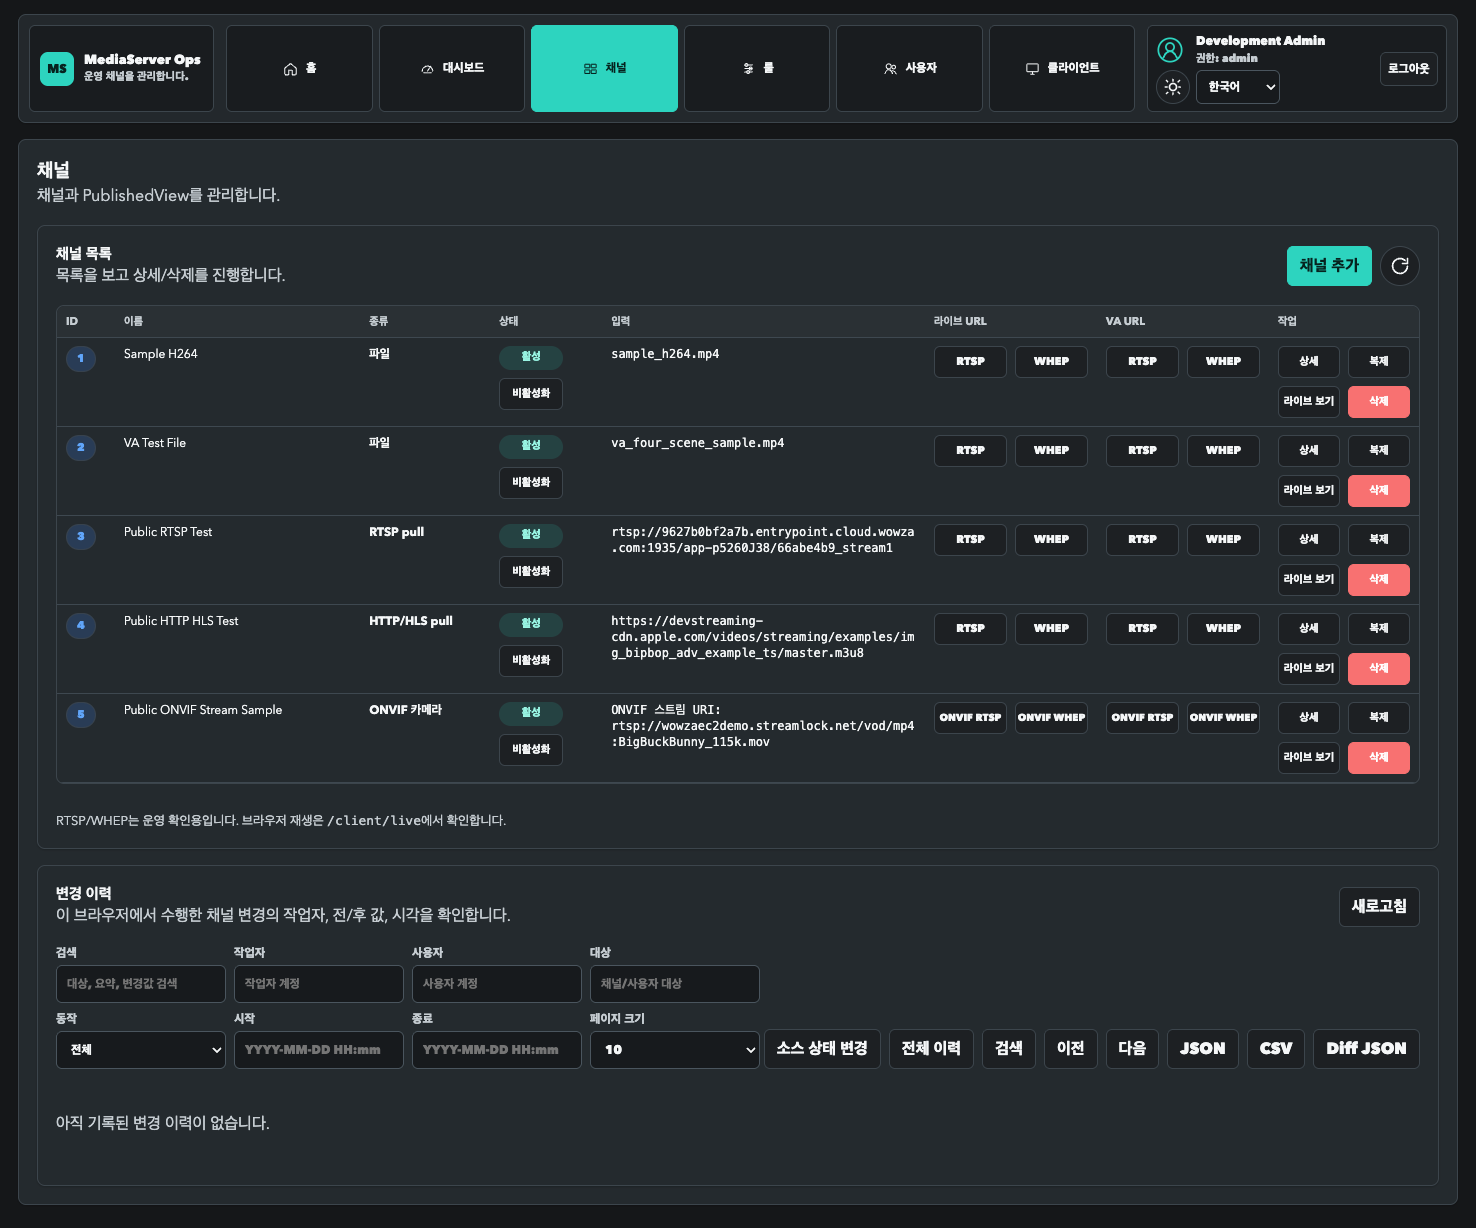
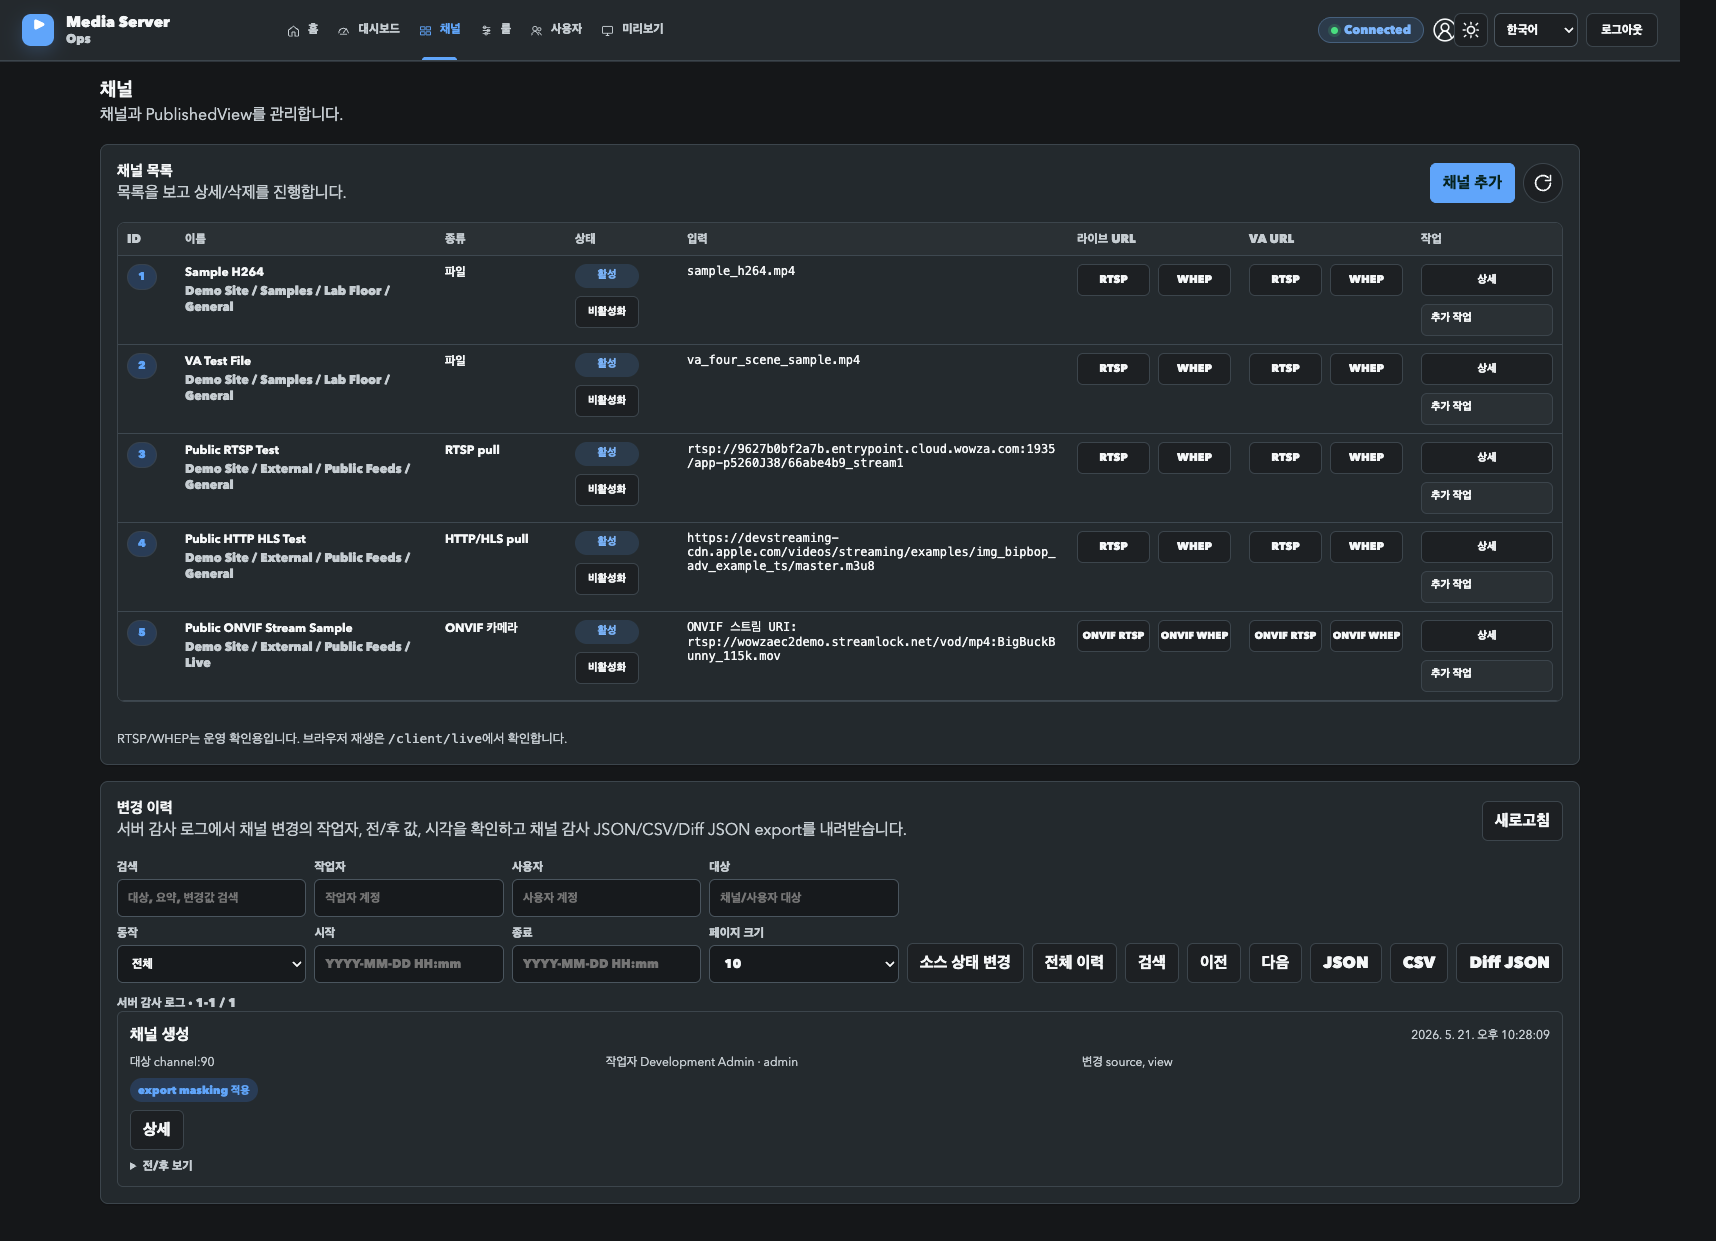
fix: refresh v1.7 docs screenshots

diff --git a/src/ingress/product_ui_js.cpp b/src/ingress/product_ui_js.cpp
@@ -52,6 +52,7 @@ std::string ProductSharedUiScript() {
         '룰': 'Rules',
         '사용자': 'Users',
         '클라이언트': 'Client',
+        '미리보기': 'Client Preview',
         '라이브': 'Live',
         '운영 메뉴': 'Ops menu',
         '클라이언트 메뉴': 'Client menu',
@@ -84,6 +85,7 @@ std::string ProductSharedUiScript() {
         '닫기': 'Close',
         '삭제': 'Delete',
         '작업': 'Actions',
+        '추가 작업': 'More actions',
         '상태': 'Status',
         '상태 복사': 'Copy status',
         '상태 요약 복사 완료': 'Status summary copied',
@@ -95,6 +97,12 @@ std::string ProductSharedUiScript() {
         '종류': 'Type',
         '입력': 'Input',
         '선택': 'Sel.',
+        '생성': 'Create',
+        '대량 복제': 'Bulk clone',
+        '대량 비활성화': 'Bulk disable',
+        '승인': 'Approve',
+        '거절': 'Reject',
+        '증거 export': 'Evidence export',
         '전체': 'All',
         '전체 선택': 'Select all',
         '전체 해제': 'Clear all',
@@ -105,6 +113,9 @@ std::string ProductSharedUiScript() {
         '복제': 'Clone',
         '라이브 보기': 'Live view',
         '없음': 'None',
+        '필요': 'Required',
+        '준비 필요': 'Needs setup',
+        '준비 완료': 'Ready',
         '사용 안 함': 'Disabled',
         '아니요': 'No',
         '아니오': 'No',
@@ -179,6 +190,10 @@ std::string ProductSharedUiScript() {
         '요청/결정': 'Request / decision',
         '공개 회원가입이 아니라, 별도 요청 페이지로 들어온 계정을 관리자가 검토한 뒤 초대 링크를 발급합니다.': 'This is not open self-signup; admins review requests from the request page and issue invite links.',
         '사용자와 권한 범위를 관리합니다.': 'Manage users and scopes.',
+        '사용자 저장소가 아직 없습니다. 사용자 추가로 계정을 생성하세요.': 'No user store exists yet. Create an account with Add User.',
+        '사용자 비공개': 'Users hidden',
+        '사용자 수는 현재 권한으로 숨김입니다.': 'User count is hidden for the current permission.',
+        '권한 없음': 'No permission',
         '서버 감사 로그에서 사용자 변경의 작업자, 전/후 값, 시각을 확인하고 사용자 감사 JSON/CSV/Diff JSON export를 내려받습니다.': 'Review actor, before/after values, and time for user changes from the server audit log, and download user audit JSON/CSV/Diff JSON exports.',
         '서버 감사 로그에서 채널 변경의 작업자, 전/후 값, 시각을 확인하고 채널 감사 JSON/CSV/Diff JSON export를 내려받습니다.': 'Review actor, before/after values, and time for channel changes from the server audit log, and download channel audit JSON/CSV/Diff JSON exports.',
         '서버 감사 로그에서 룰 변경의 작업자, 전/후 값, 시각을 확인하고 룰 감사 JSON/CSV/Diff JSON export를 내려받습니다.': 'Review actor, before/after values, and time for rule changes from the server audit log, and download rule audit JSON/CSV/Diff JSON exports.',
@@ -209,6 +224,13 @@ std::string ProductSharedUiScript() {
         '에서 확인합니다.': '.',
         '소스 상태 변경': 'Source status changes',
         '전체 이력': 'Full history',
+        '서버 감사 로그': 'Server audit log',
+        '채널 생성': 'Channel created',
+        '룰 수정': 'Rule updated',
+        '대상': 'Target',
+        '작업자': 'Actor',
+        '변경': 'Changed',
+        '전/후 보기': 'Before/after',
         '외부 WHEP pull': 'External WHEP pull',
         'ONVIF 카메라는 ONVIF 프로파일에서 선택한 라이브 스트림 URI를 연결합니다. 외부 WHEP는 URL 입력, Published WebRTC 소스는 저장된 sourceId 연결입니다.': 'ONVIF camera connects the live stream URI selected from an ONVIF profile. External WHEP takes a URL. Published WebRTC source connects a saved sourceId.',
         '지원 제외: WS-Discovery 자동 검색, PTZ 제어, ONVIF Events/PullPoint, Profile G/Recording/Replay는 제공하지 않습니다. 운영자가 확인한 live URI 또는 probe fixture를 사용합니다.': 'Not included: WS-Discovery auto discovery, PTZ control, ONVIF Events/PullPoint, and Profile G/Recording/Replay are not provided. Use an operator-verified live URI or probe fixture.',
@@ -538,10 +560,29 @@ std::string ProductSharedUiScript() {
         '채널 선택': 'Select channel',
         '채널 미선택': 'No channel selected',
         '소스 없음': 'No source',
+        '카메라': 'Cameras',
+        '카메라 검색': 'Search cameras',
+        '타일에 드롭해 바로 배치합니다.': 'Drop onto a tile to assign immediately.',
+        '선택한 소스의 viewer-safe 이벤트만 표시됩니다.': 'Only viewer-safe events for the selected source are shown.',
+        '선택한 소스에서 표시할 이벤트가 없습니다.': 'No events to show for the selected source.',
+        '왼쪽': 'Left',
+        '오른쪽': 'Right',
+        '소스 dock 위치': 'Source dock position',
+        '라이브 워크스페이스': 'Live Workspace',
         '표준': 'Standard',
         '고밀도': 'Compact',
         '그리드': 'Grid',
         '밀도': 'Density',
+        'Dock': 'Dock',
+        '정보 오버레이 숨김': 'Hide info overlay',
+        '정보 오버레이 표시': 'Show info overlay',
+        '워크스페이스 작업': 'Workspace actions',
+        '배치 소스': 'Assigned source',
+        '소스를 타일에 드롭': 'Drop a source onto a tile',
+        '확인 중': 'Checking',
+        '레이아웃 저장': 'Save layout',
+        '저장 복원': 'Restore saved',
+        '권한 기본': 'Role default',
         '전체 재연결': 'Reconnect all',
         '전체 정지': 'Stop all',
         '전체 연결 해제': 'Disconnect all',
@@ -582,10 +623,33 @@ std::string ProductSharedUiScript() {
         '이벤트 요약 복사 완료': 'Event summary copied',
         '클립보드 복사 실패': 'Clipboard copy failed',
         '침입': 'Intrusion',
+        '침입 체류': 'Intrusion dwell',
+        '재진입': 'Re-entry',
+        '역방향 이동': 'Wrong direction',
+        '라인 통과 후 침입': 'Intrusion after line crossing',
+        '구역 점유': 'Zone occupancy',
         '배회': 'Loitering',
         '혼잡/점유': 'Crowding / occupancy',
         '출입': 'Entry / exit',
-        '존재 감지': 'Presence detection'
+        '존재 감지': 'Presence detection',
+        '사람': 'Person',
+        '차량': 'Vehicle',
+        '시나리오 빌더': 'Scenario Builder',
+        '현장 preset과 대상 객체를 골라 이벤트 템플릿 초안을 만듭니다. 판단 엔진과 저장 payload 계약은 변경하지 않습니다.': 'Choose a site preset and target objects to draft an event template. The decision engine and saved payload contract are unchanged.',
+        'Site preset과 대상 객체를 골라 이벤트 템플릿 초안을 만듭니다. 판단 엔진과 저장 payload 계약은 변경하지 않습니다.': 'Choose a site preset and target objects to draft an event template. The decision engine and saved payload contract are unchanged.',
+        '템플릿 폼에 적용': 'Apply to template form',
+        '초안 요약': 'Draft Summary',
+        '초안 payload 보기': 'View draft payload',
+        '저장된 채널 분석 설정이 없습니다.': 'No saved channel analysis rules.',
+        '기본 preset': 'Default preset',
+        '대상 사람, 차량': 'Targets person, vehicle',
+        'Preset은 시작값입니다. 저장 전 현장 영상, geometry, 대상 객체를 확인하세요.': 'Presets are starting values. Before saving, verify field video, geometry, and target objects.',
+        '링크 복사': 'Copy link',
+        '현재': 'Current',
+        '런타임 상태 정상 범위': 'Runtime status is within the normal range',
+        'runtime/status에서 즉시 확인할 warning이 없습니다.': 'No warnings need immediate review in runtime/status.',
+        '영향 없음': 'No impact',
+        '현재 상태를 유지하며 다음 refresh에서 추세를 봅니다.': 'Keep the current state and review the trend on the next refresh.'
       }));
       const translatePattern = text => {
         const translateLabel = value => String(value || '')
@@ -595,11 +659,18 @@ std::string ProductSharedUiScript() {
         if (text.includes(' · ') && (/^#\d+\s/u.test(text) || /^(?:프레임|Frame)\s/u.test(text))) {
           return text.split(' · ').map(part => koToEn.get(part.trim()) || translatePattern(part.trim())).join(' · ');
         }
+        if (text.includes('Preset은 시작값입니다. 저장 전 현장 영상,')) {
+          return text.replace(
+            /Preset은 시작값입니다\.\s+저장 전 현장 영상,\s*geometry,\s*(?:대상|Target)\s+객체를 확인하세요\./u,
+            'Presets are starting values. Before saving, verify field video, geometry, and target objects.'
+          );
+        }
         if (text.includes(', ') && /[가-힣]/u.test(text)) {
           return text.split(', ').map(part => koToEn.get(part.trim()) || translatePattern(part.trim())).join(', ');
         }
         const rules = [
           [/^권한:\s*(.+)$/u, (_match, role) => `Role: ${role}`],
+          [/^(.+)\s+권한 꺼짐$/u, (_match, feature) => `${koToEn.get(String(feature).trim()) || translatePattern(String(feature).trim())} access off`],
           [/^ONVIF 스트림 URI:\s*(.+)$/u, (_match, uri) => `ONVIF Stream URI: ${uri}`],
           [/^발행 sourceId:\s*(.+)$/u, (_match, sourceId) => `Published sourceId: ${sourceId}`],
           [/^전체\s+(\d+)$/u, (_match, count) => `All ${count}`],
@@ -630,6 +701,20 @@ std::string ProductSharedUiScript() {
           [/^(\d+)\s*사용자$/u, (_match, count) => `${count} users`],
           [/^(\d+)\s*VA 룰$/u, (_match, count) => `${count} VA rules`],
           [/^(\d+)\s*이벤트 룰$/u, (_match, count) => `${count} event rules`],
+          [/^서버 감사 로그\s+·\s+(.+)$/u, (_match, range) => `Server audit log · ${range}`],
+          [/^(?:\d{4}\.\s*\d+\.\s*\d+\.)\s+(오전|오후)\s+(.+)$/u, (match, meridiem, time) => match.replace(meridiem, meridiem === '오전' ? 'AM' : 'PM')],
+          [/^총\s+(\d+)\/(\d+)개$/u, (_match, shown, total) => `${shown}/${total} total`],
+          [/^대상\s+(.+)$/u, (_match, target) => `Target ${String(target).split(',').map(part => koToEn.get(part.trim()) || translatePattern(part.trim())).join(', ')}`],
+          [/^작업자\s+(.+)$/u, (_match, actor) => `Actor ${actor}`],
+          [/^변경\s+(.+)$/u, (_match, fields) => `Changed ${fields}`],
+          [/^출처\s+(.+)$/u, (_match, value) => `Source ${koToEn.get(String(value).trim()) || translatePattern(String(value).trim())}`],
+          [/^다음 조치\s+(.+)$/u, (_match, value) => `Next action ${koToEn.get(String(value).trim()) || translatePattern(String(value).trim())}`],
+          [/^소스\s+#(\d+)\s+(.+)$/u, (_match, id, status) => `Source #${id} ${koToEn.get(String(status).trim()) || translatePattern(String(status).trim())}`],
+          [/^(.+)\s+정상$/u, (_match, name) => `${koToEn.get(String(name).trim()) || String(name).trim()} normal`],
+          [/^신뢰도\s+(.+)$/u, (_match, value) => `confidence ${value}`],
+          [/^후보\s+(.+)$/u, (_match, value) => `candidate ${value}`],
+          [/^확정\s+(.+)$/u, (_match, value) => `confirm ${value}`],
+          [/^재알림\s+(.+)$/u, (_match, value) => `cooldown ${value}`],
           [/^라이브,\s*대시보드,\s*이벤트,\s*메타데이터\s*\/\s*채널\s+(.+)$/u, (_match, target) => `Live, Dashboard, Events, Metadata / Channel ${target}`],
           [/^라이브,\s*대시보드,\s*이벤트,\s*메타데이터\s*\/\s*전체$/u, () => 'Live, Dashboard, Events, Metadata / All channels'],
           [/^(라이브|대시보드|이벤트|메타데이터)\s*\/\s*채널\s+(.+)$/u, (_match, feature, target) => `${koToEn.get(feature) || feature} / Channel ${target}`],

diff --git a/src/ingress/product_ui_css.cpp b/src/ingress/product_ui_css.cpp
@@ -310,7 +310,7 @@ std::string ProductUiCss() {
       width: auto;
       grid-template-columns: none;
       grid-auto-flow: column;
-      grid-auto-columns: minmax(78px, 92px);
+      grid-auto-columns: max-content;
       grid-auto-rows: 60px;
       gap: 2px;
       align-items: stretch;
@@ -351,6 +351,11 @@ std::string ProductUiCss() {
     body.product-shell .image-nav svg {
       width: 15px;
       height: 15px;
+    }
+    body.product-shell .image-nav span {
+      overflow-wrap: normal;
+      white-space: nowrap;
+      word-break: normal;
     }
     body.product-shell .account-menu {
       width: auto;
@@ -696,7 +701,8 @@ std::string ProductUiCss() {
       color: currentColor;
     }
     .image-nav span {
-      overflow-wrap: anywhere;
+      overflow-wrap: break-word;
+      word-break: normal;
       line-height: 1.12;
     }
     .account-menu {
@@ -2579,6 +2585,10 @@ std::string ProductUiCss() {
         height: 44px;
         min-height: 44px;
       }
+      body.product-shell .image-nav span {
+        overflow-wrap: break-word;
+        white-space: normal;
+      }
       .header-utilities { justify-content: flex-start; }
       .account-menu { width: 100%; }
       body.product-shell .account-menu {
@@ -3252,7 +3262,7 @@ std::string ClientShellCss() {
     }
     .client-compare-grid {
       display: grid;
-      grid-template-columns: repeat(auto-fit, minmax(190px, 1fr));
+      grid-template-columns: repeat(auto-fit, minmax(230px, 1fr));
       gap: 10px;
     }
     .client-compare-card {
@@ -3268,13 +3278,17 @@ std::string ClientShellCss() {
     .client-compare-card.bad { border-color: color-mix(in srgb, var(--bad) 52%, var(--line)); }
     .client-compare-head {
       display: grid;
-      grid-template-columns: minmax(0, 1fr) auto;
+      grid-template-columns: minmax(0, 1fr);
       align-items: start;
       gap: 8px;
     }
+    .client-compare-head .chip {
+      justify-self: start;
+    }
     .client-compare-head strong,
     .client-compare-card p {
-      overflow-wrap: anywhere;
+      overflow-wrap: break-word;
+      word-break: normal;
     }
     .client-compare-preset {
       margin: 0;

diff --git a/docs/development-backlog.md b/docs/development-backlog.md
@@ -92,9 +92,8 @@ UI 원칙:
 
 비추적 참고 스케치:
 
-- 생성 이미지:
-  `/Users/dhseo/.codex/generated_images/019e420b-cef3-7f61-b1ea-21871970833c/ig_0bb74733c1b2305d016a0e2cda80408191a587085340d69179.png`
-- 이 PNG는 roadmap 방향 참고용이며 git에 포함하지 않습니다.
+- 초기 UI 방향 스케치는 roadmap 작성 시점의 참고용이며 git/release asset에
+  포함하지 않습니다. 공개 문서에는 개인 로컬 생성 이미지 경로를 보존하지 않습니다.
 - 구현 시 참고할 구조는 compact top bar, 좌/우 전환 가능한 source/event dock,
   drag/drop video workspace, tile별 최소 context action, 선택 시에만 보이는 영상 정보
   overlay입니다.
@@ -104,6 +103,9 @@ UI 원칙:
 1. Client 화면 대체와 버튼 축소 기준을 닫았습니다.
 2. 이벤트 검토, source group/site, layout 저장을 붙여 실제 운영 흐름을 닫았습니다.
 3. 알림 연동, Scenario Builder, Incident Timeline을 기본 UI 위에 확장했습니다.
+4. README/UI guide 대표 screenshot asset을 2026-05-23 기준 v1.7.0 UI-first
+   화면으로 한국어/영어 모두 재캡처했습니다. Client Live 대표 이미지는 source tree,
+   dock event feed, workspace preset, tile action/VA overlay 구조를 포함합니다.
 
 | ID | 우선순위 | 영역 | 목표 | 예상 검증 |
 | --- | --- | --- | --- | --- |

diff --git a/docs/assets/ui/README.md b/docs/assets/ui/README.md
@@ -2,12 +2,10 @@
 
 이 디렉터리는 README와 `docs/ui-guide.md`에서 사용할 제품 UI 스크린샷을 역할 기준 파일명으로 보관합니다.
 
-현재 대표 제품 이미지는 2026-05-16 기준 v1.2.0 ERP-style product shell로 다시 캡처했습니다.
-2026-05-17 v1.3.0 release 문서/이미지 재점검에서는 기존 대표 캡처를 유지했습니다.
-2026-05-18 v1.4.0 release 문서/이미지 재점검에서도 README 대표 캡처는 유지합니다.
-2026-05-20 v1.6.0 release 문서/이미지 정적 검증에서도 README 대표 캡처는 유지합니다.
-v1.6.0은 source-only stabilization release이며 대표 화면, media path, VA overlay
-예시를 교체해야 하는 제품 화면 변경은 없습니다.
+현재 대표 제품 이미지는 2026-05-23 기준 v1.7.0 UI-first close-out 화면으로
+다시 캡처했습니다. 특히 Client Live 이미지는 source tree, dock event feed,
+workspace preset, tile-level disconnect/action, VA overlay tile이 보이는 현재
+제품 구조를 기준으로 합니다.
 
 README, README.en, `docs/ui-guide.md`, `docs/video-analysis.md`에서 참조하는 UI/VA
 이미지는 `verify-docs-ui-assets` 정적 gate로 관리합니다. 정적 gate만 실행하고

diff --git a/docs/ui-guide.md b/docs/ui-guide.md
@@ -1479,7 +1479,7 @@ Screenshot 관리 정책:
 | 파일명 | 역할 기반 이름 사용 |
 | 기본 theme | dark mode 대표 화면 |
 | 링크 정책 | 새 이미지가 없으면 broken link 대신 “이미지 추가 예정” 문구 사용 |
-| 현재 대표 이미지 | 2026-05-16 v1.2.0 ERP-style product shell 기준 재캡처 후 v1.3.0 문서 재점검에서 유지 |
+| 현재 대표 이미지 | 2026-05-23 v1.7.0 UI-first close-out 기준 재캡처. Client Live는 source tree, dock event feed, workspace preset, tile action/VA overlay 구조를 포함 |
 | 재캡처 | `node scripts/internal/capture_docs_ui_assets.mjs --http-base http://127.0.0.1:8082` |
 | 기준 검증 | `./server.sh verify-docs-ui-assets` |
 | visual regression 산출물 | `verify-ops-client-ui --screenshots --output-dir <dir>` 실행 후 `<dir>/visual-regression-manifest.json`, `<dir>/index.md` |
